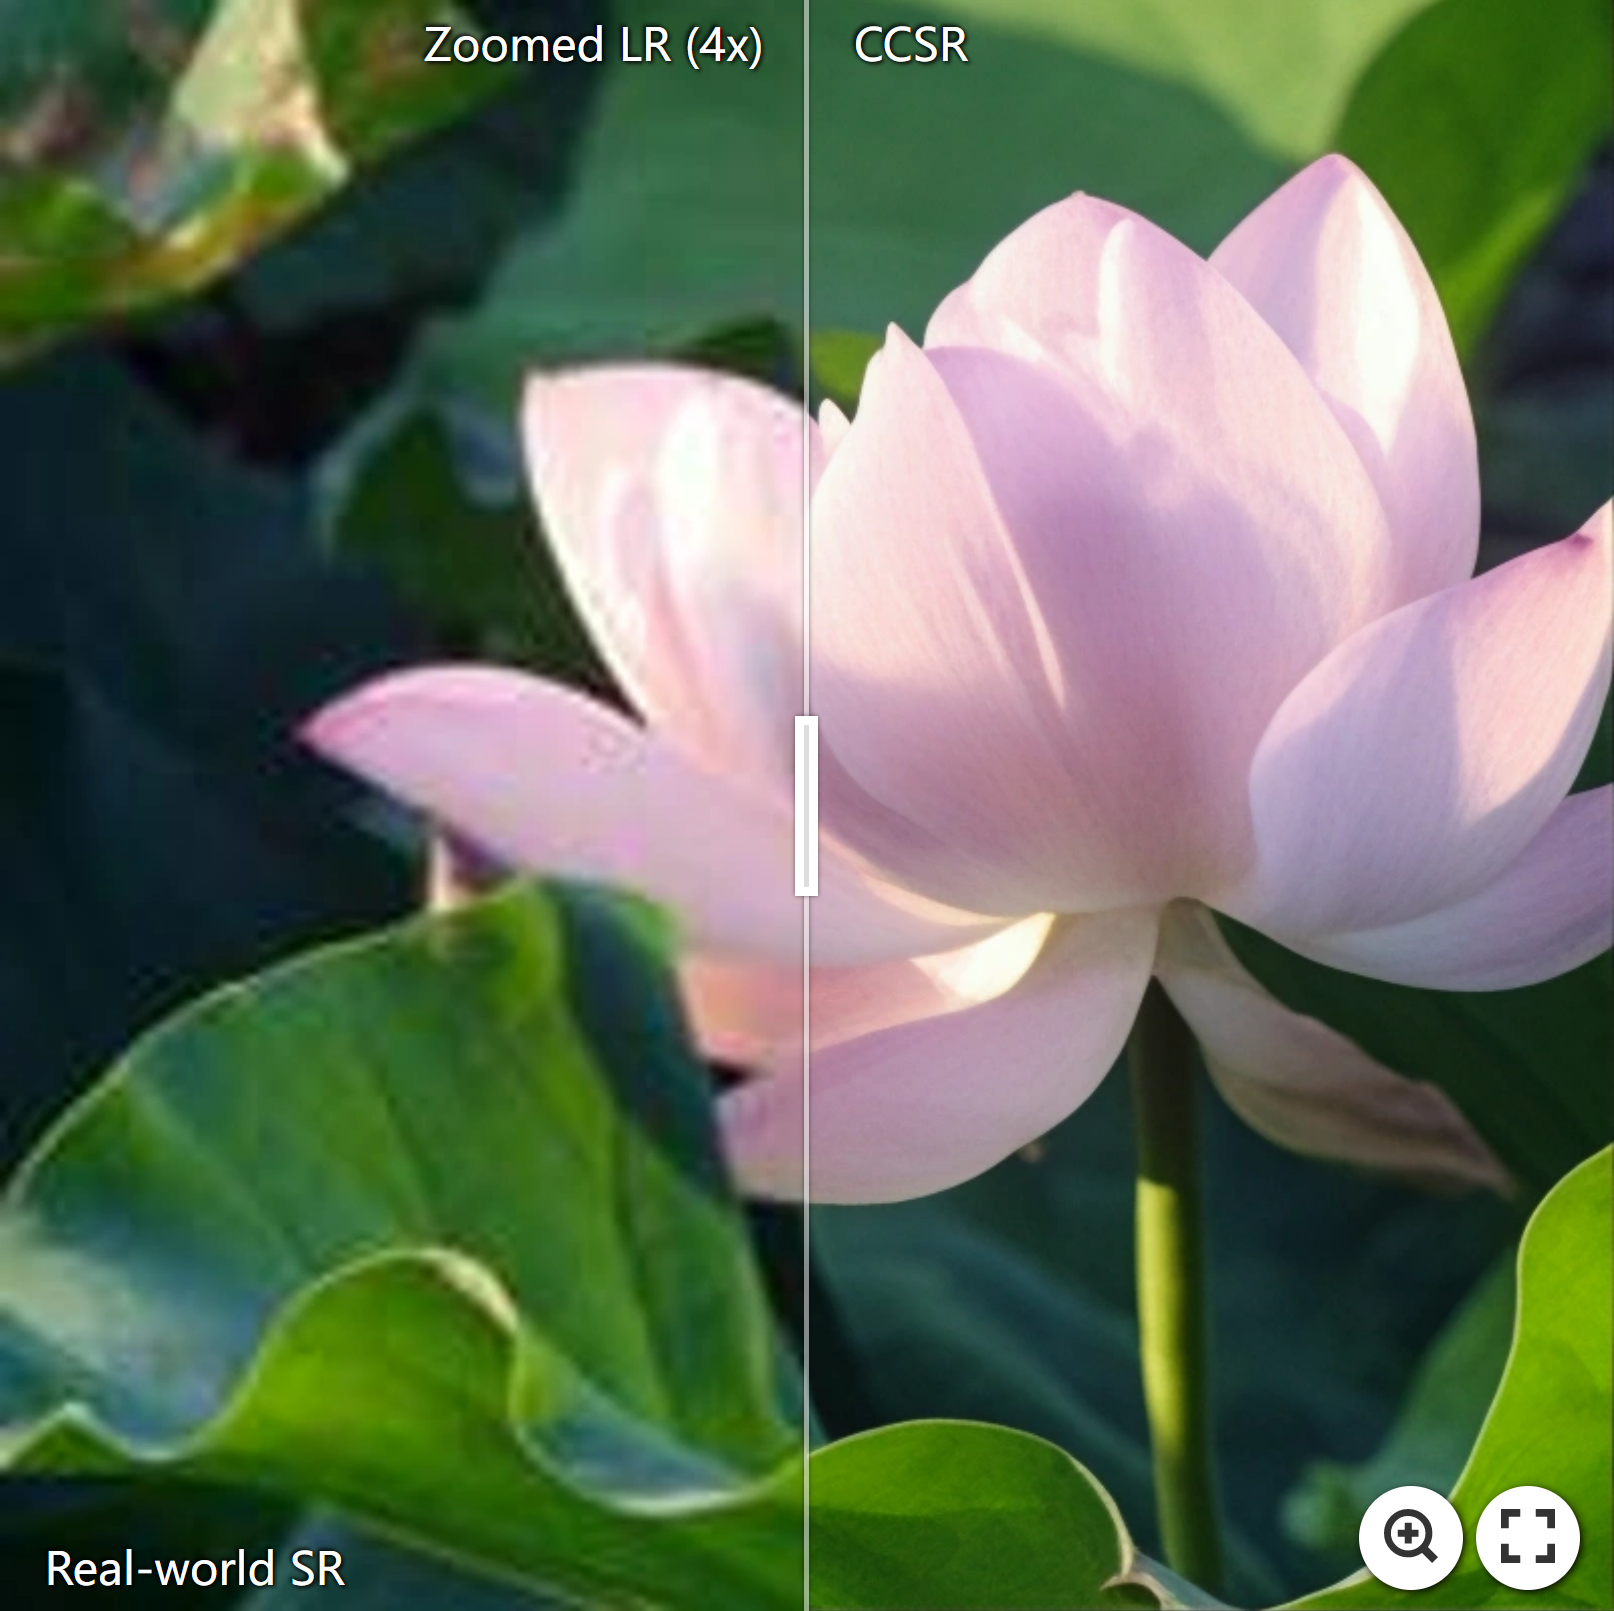
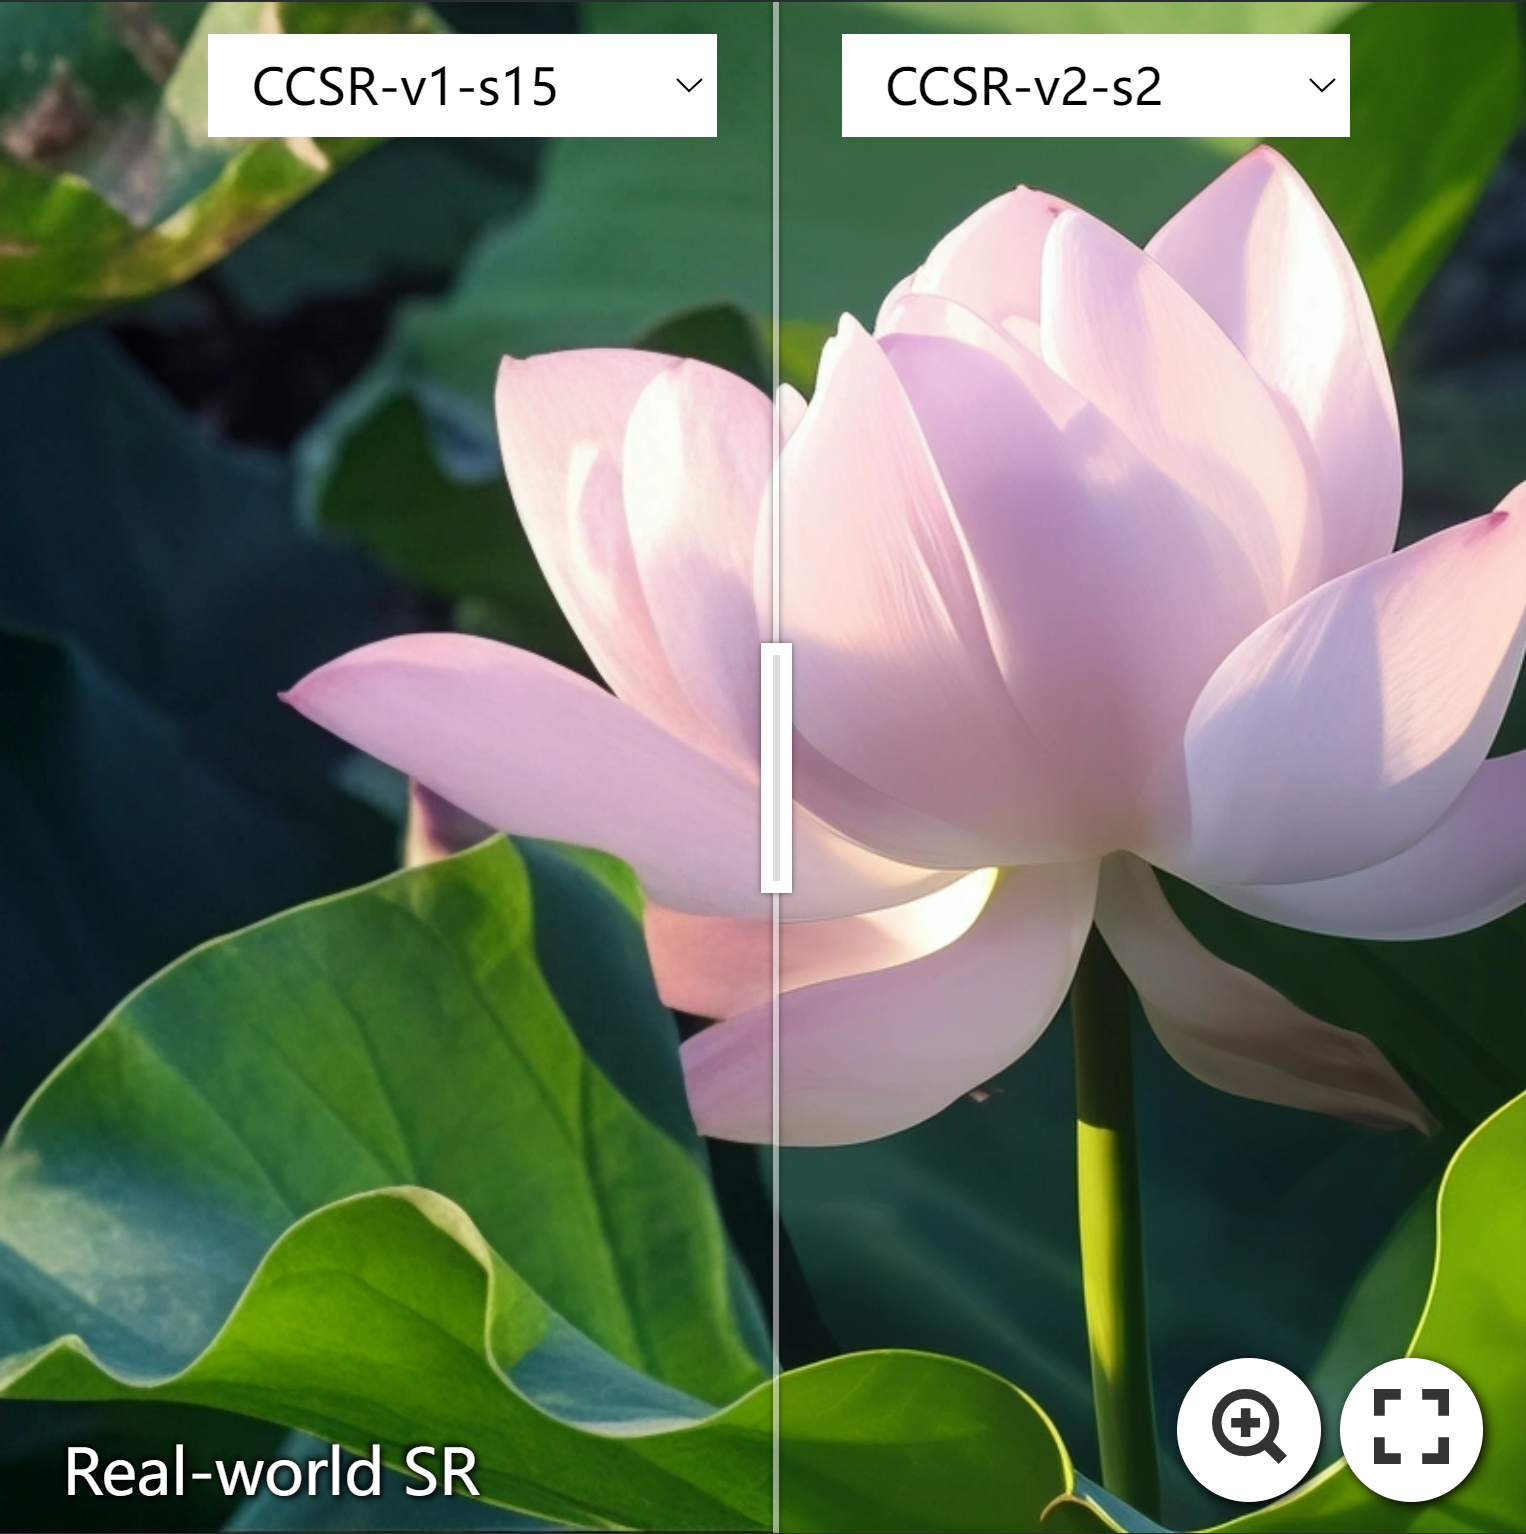
update

diff --git a/README.md b/README.md
@@ -26,26 +26,32 @@
 
 :star: If CCSR is helpful to your images or projects, please help star this repo. Thanks! :hugs:
 
- ## 🧡ྀི Improvements
-We have implemented the CCSR-v2 code based on the [Diffusers](https://github.com/huggingface/diffusers). Compared to CCSR-v1, the following enhancements have been made:
+ ## 🧡ྀི What's New in CCSR-v2?
+We have implemented the CCSR-v2 code based on the [Diffusers](https://github.com/huggingface/diffusers). Compared to CCSR-v1, CCSR-v2 brings a host of upgrades:
 
-- **Stage2 Training**: The output $\hat{x}_{0 \gets T}$ from the starting point $x_T$ in Stage 1 is now used as the input for Stage 2, enabling a more efficient one-step diffusion process.
-- **Inference stage**: Supports highly efficient inference with as few as 2 or even 1 diffusion step; Allows flexible diffusion step selection without requiring re-training.
-- **Results stability**: CCSR-v2 exhibits significantly improved stability in synthesizing fine image details, ensuring higher-quality outputs.
+- 🔄**Stage 2 Refinement**: In CCSR-v2, the output $\hat{x}_{0 \gets T}$ from Stage 1 is now directly fed into Stage 2, streamlining the restoration process into an efficient one-step diffusion workflow. This strategy boosts both speed and performance.
+- 📈**Enhanced Clarity**: With upgraded algorithms, CCSR-v2 restores images with crisper details while maintaining fidelity.
+- ⚖**Results stability**: CCSR-v2 exhibits significantly improved stability in synthesizing fine image details, ensuring higher-quality outputs.
+- ⚡**Efficient**: Supports highly efficient inference with as few as 2 or even 1 diffusion step, drastically reducing computation time without compromising quality. 
+- 🛠**Flexibility**: Allows flexible diffusion step selection, adapting to your specific needs, without requiring re-training.
 
+## 🌟 Overview Framework
+![ccsr](figs/framework.png)
 
 ## 😍 Visual Results
 ### Demo on Real-World SR
-[<img src="figs/compare_1.png" height="223px"/>](https://imgsli.com/MjMxMzA0) [<img src="figs/compare_2.png" height="223px"/>](https://imgsli.com/MjMxMzEx) [<img src="figs/compare_4.png" height="223px"/>](https://imgsli.com/MjMxMzE1) [<img src="figs/compare_6.png" height="223px"/>](https://imgsli.com/MjMxMzI3)
-[<img src="figs/compare_3.png" height="223px"/>](https://imgsli.com/MjMxMzEy) [<img src="figs/compare_5.png" height="223px"/>](https://imgsli.com/MjMxMzE5) 
 
-### Comparisons on Real-World SR
-For the diffusion model-based method, two restored images that have the best and worst PSNR values over 10 runs are shown for a more comprehensive and fair comparison. 
+[<img src="figs/compare_1.png" height="223px"/>](https://imgsli.com/MzI2MTg5) [<img src="figs/compare_2.png" height="223px"/>](https://imgsli.com/MzI2MTky/1/3) 
 
-![ccsr](figs/realworld.png)
+[<img src="figs/compare_3.png" height="223px"/>](https://imgsli.com/MzI2MTk0/0/2) [<img src="figs/compare_4.png" height="223px"/>](https://imgsli.com/MzI2MTk1/0/2) 
 
-### Comparisons on Bicubic SR
-![ccsr](figs/bicubic.png)
+
+### Comparisons with the standard DM-based SR methods
+
+![ccsr](figs/compare_standard.png)
+
+### Comparisons with the efficient DM-based SR methods.
+![ccsr](figs/compare_efficient.png)
 For more comparisons, please refer to our paper for details.
 
 ## 📝 Quantitative comparisons
